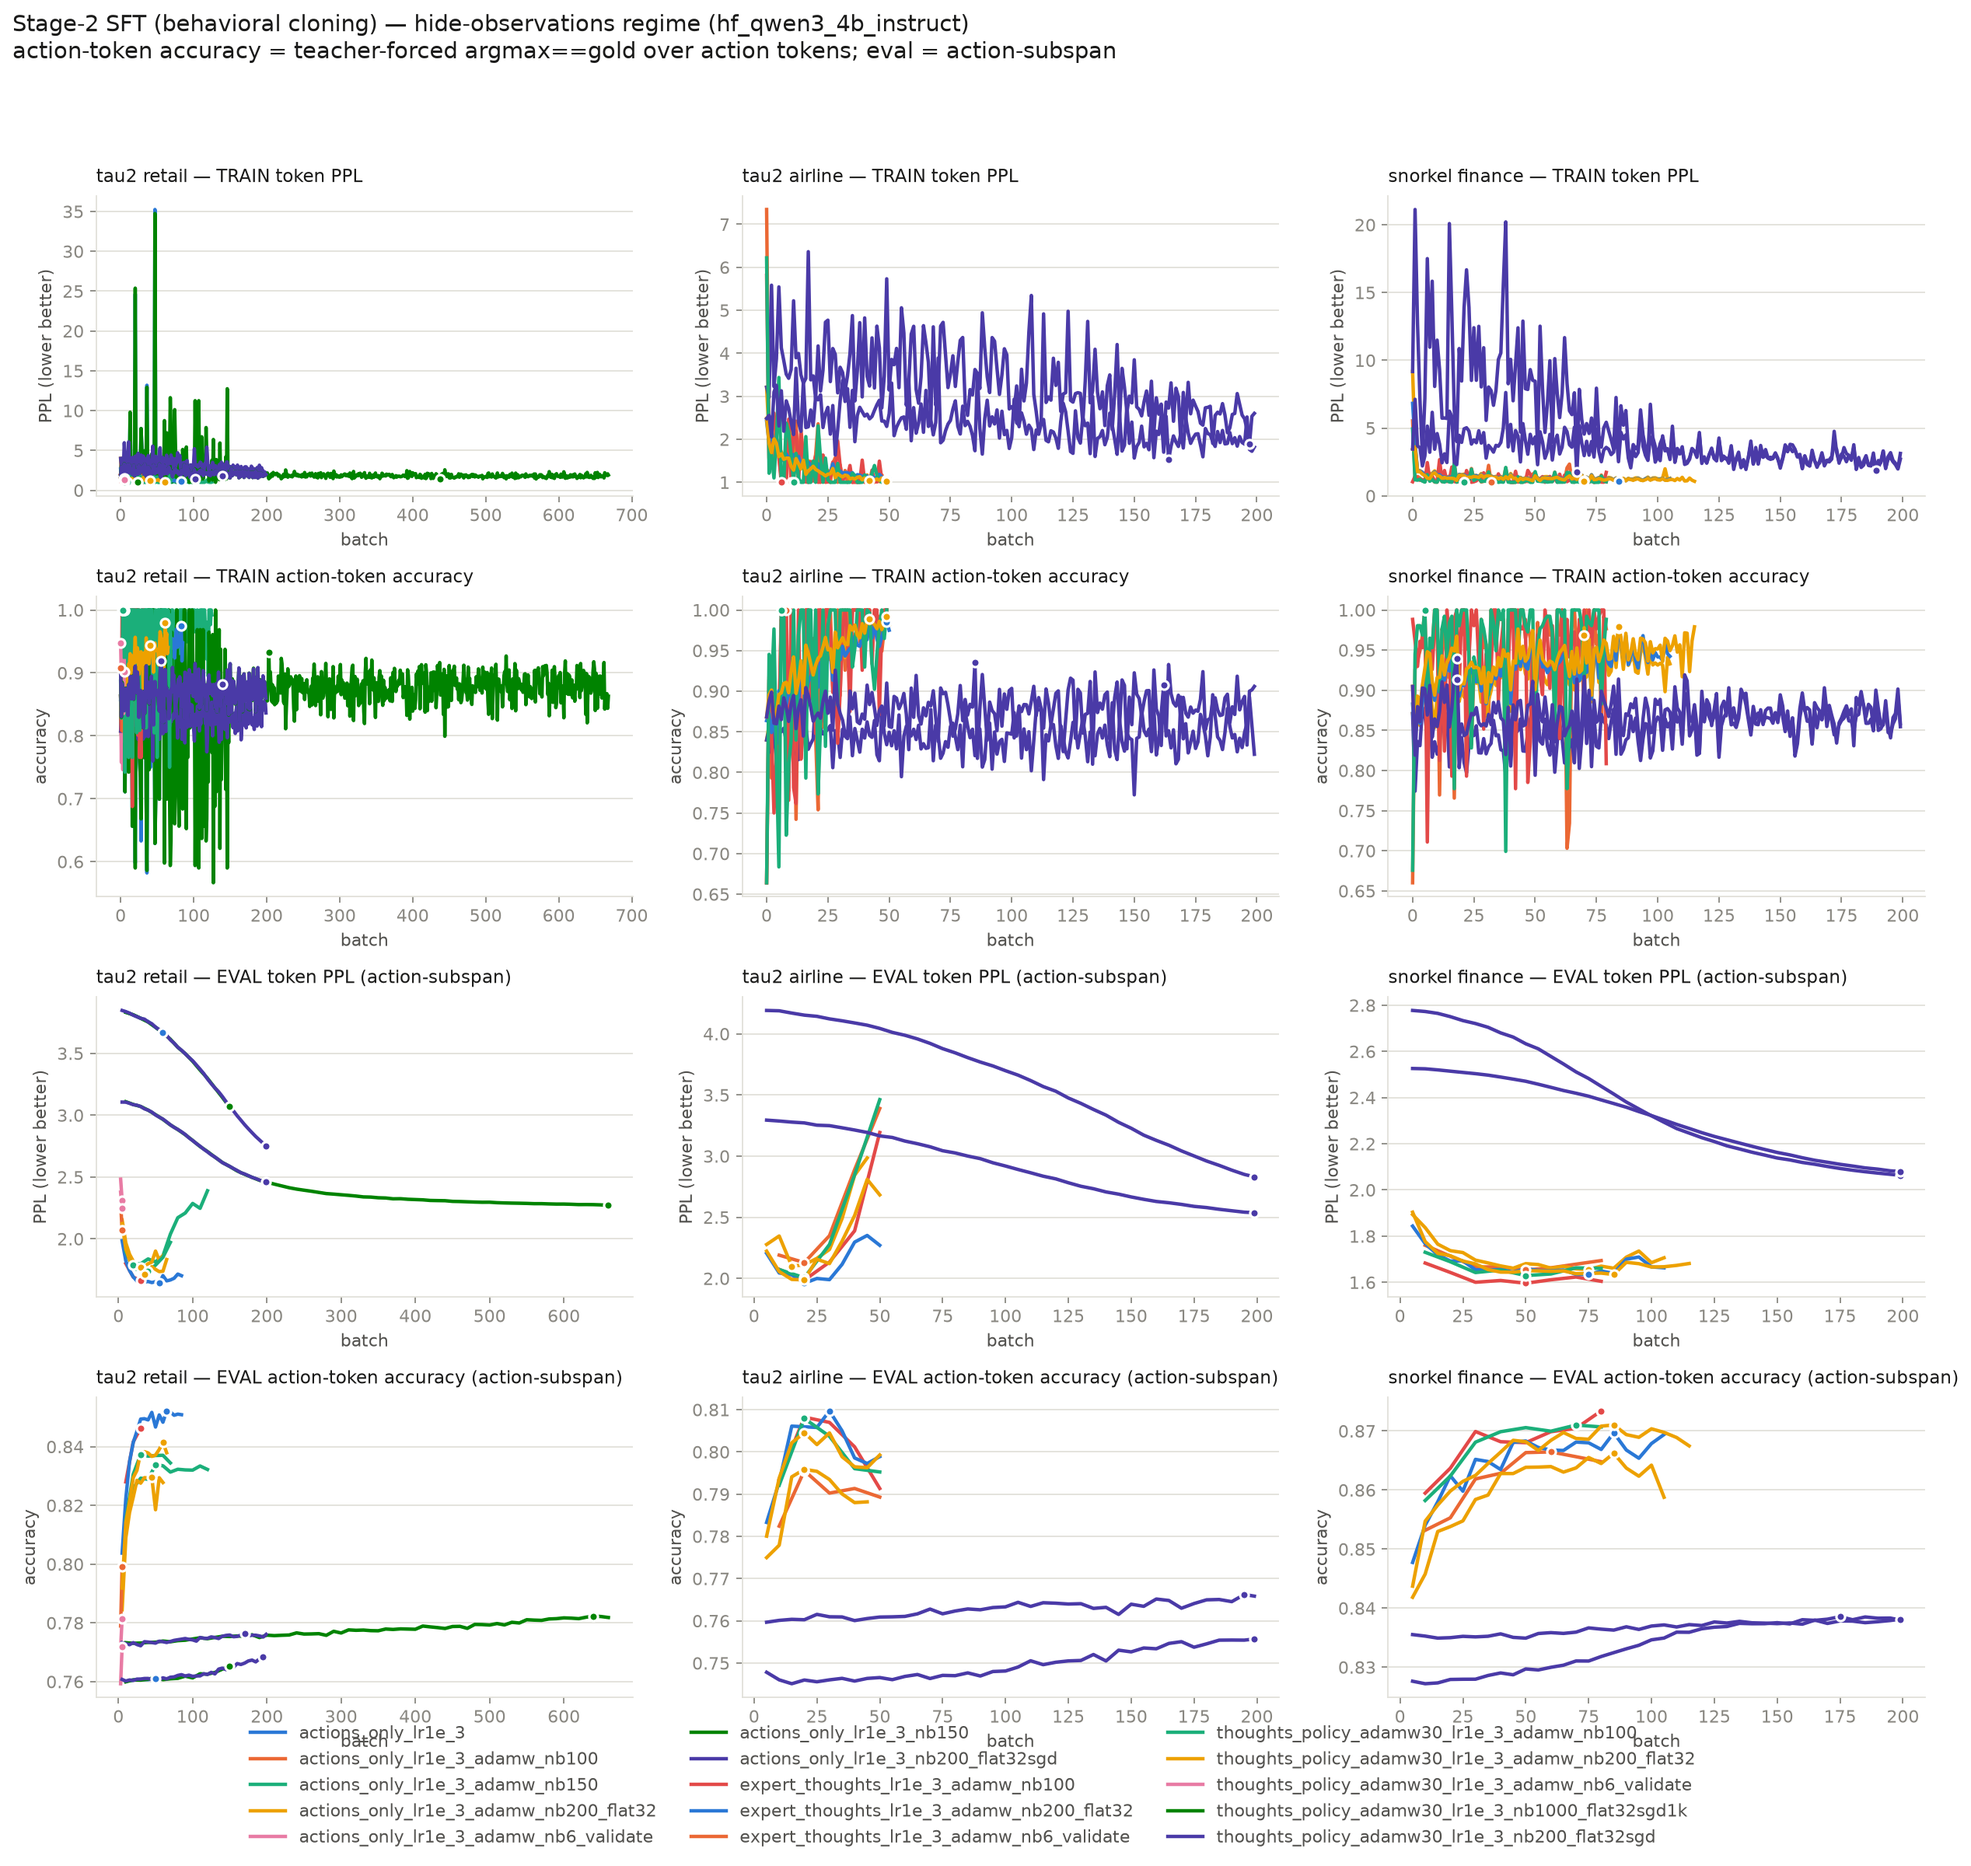
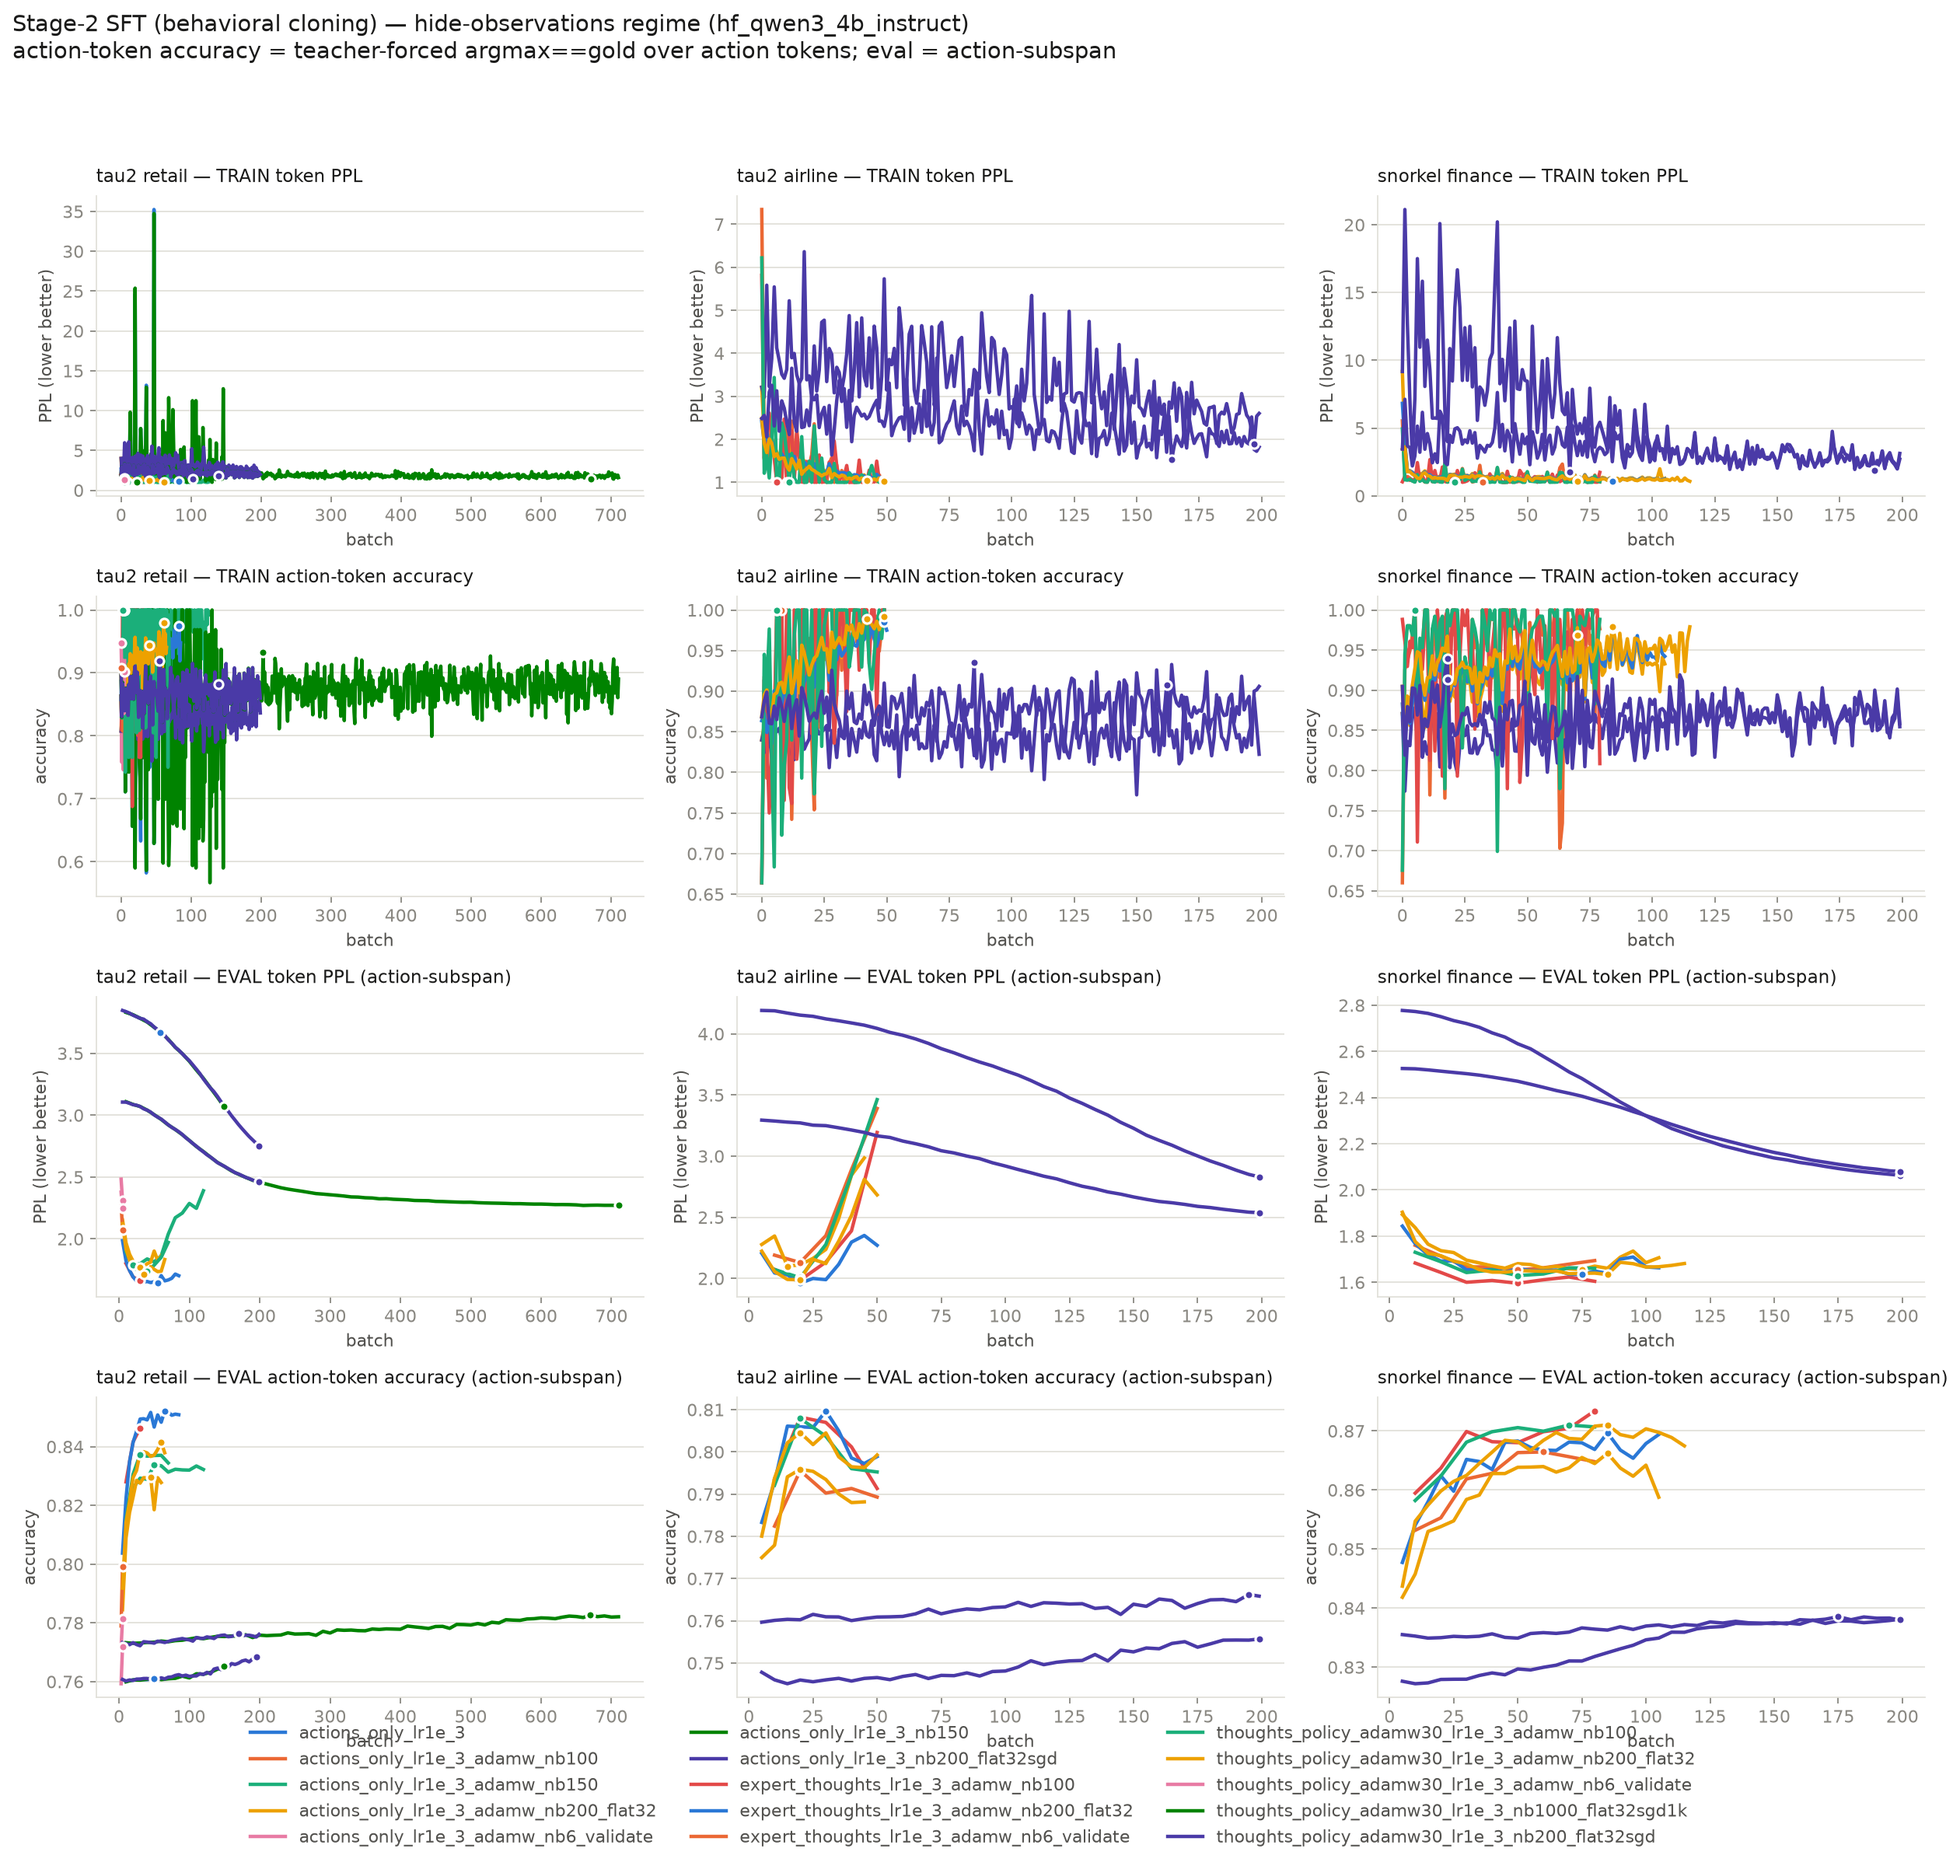
auto: SFT LR sweep results snapshot

diff --git a/notes/cc-5.0-sft-lr-investigation.md b/notes/cc-5.0-sft-lr-investigation.md
@@ -376,7 +376,7 @@ retail/expert_thoughts_lr1e_3_adamw_nb6_validate     hide    5     2.2879 ->   2
 retail/thoughts_policy_adamw30_lr1e_3_adamw_nb100    hide   70     1.8959 ->   1.9718  -4.00%  0.8345        1.3828  <running>
 retail/thoughts_policy_adamw30_lr1e_3_adamw_nb200_flat32 hide   65     2.1230 ->   1.8328  13.67%  0.8379        1.2222  <running>
 retail/thoughts_policy_adamw30_lr1e_3_adamw_nb6_validate hide    5     2.3775 ->   2.2449   5.57%  0.7814        1.3506
-retail/thoughts_policy_adamw30_lr1e_3_nb1000_flat32sgd1k hide  668     3.1089 ->   2.2700  26.98%  0.7818        1.9067  <running>
+retail/thoughts_policy_adamw30_lr1e_3_nb1000_flat32sgd1k hide  711     3.1089 ->   2.2699  26.99%  0.7821        1.5918  <running>
 retail/thoughts_policy_adamw30_lr1e_3_nb200_flat32sgd hide  199     3.1058 ->   2.4625  20.71%  0.7761        1.9910
 airline/actions_only_lr1e_3_adamw_nb100              hide   50     2.1901 ->   3.3899 -54.78%  0.7893        1.0000  <running>
 airline/actions_only_lr1e_3_adamw_nb200_flat32       hide   45     2.2776 ->   2.9850 -31.06%  0.7882        1.0679  <running>
@@ -397,7 +397,7 @@ snorkel_finance_split/thoughts_policy_adamw30_lr1e_3_nb200_flat32sgd hide  199  
 
 11/31 arms complete   (Δ% = held-out action-subspan PPL improvement, higher is better)
 ```
-_last refreshed: 2026-09-03 06:00_
+_last refreshed: 2026-09-03 06:20_
 <!--/RESULTS-->
 
 ## Infrastructure

diff --git a/notes/cc-3.0-retail_sft_results.md b/notes/cc-3.0-retail_sft_results.md
@@ -45,7 +45,7 @@ for wordiness rather than for mispredicting the action, which inverts the rankin
 | thoughts_policy_adamw30_lr1e_3_adamw_nb100 | hide | 1.7358 | 0.8368 | 40 | 1.9884 | 0.7917 | 20 | 0.3668 |
 | thoughts_policy_adamw30_lr1e_3_adamw_nb200_flat32 | hide | 1.7150 | 0.8383 | 35 | — | — | — | 0.2997 |
 | thoughts_policy_adamw30_lr1e_3_adamw_nb6_validate | hide | 2.2449 | 0.7814 | 5 | — | — | — | 0.6407 |
-| thoughts_policy_adamw30_lr1e_3_nb1000_flat32sgd1k | hide | 2.2700 | 0.7818 | 660 | — | — | — | 0.7395 |
+| thoughts_policy_adamw30_lr1e_3_nb1000_flat32sgd1k | hide | 2.2699 | 0.7821 | 710 | — | — | — | 0.6854 |
 | thoughts_policy_adamw30_lr1e_3_nb200_flat32sgd | hide | 2.4625 | 0.7761 | 199 | — | — | — | 0.8002 |
 | thoughts_policy_adamw30_lr1e_4_adamw_nb200_flat32 | hide | 1.7313 | 0.8393 | 140 | — | — | — | 0.2530 |
 | thoughts_policy_adamw30_lr3e_3_nb200_flat32sgd | hide | 2.2822 | 0.7809 | 199 | — | — | — | 0.6983 |
